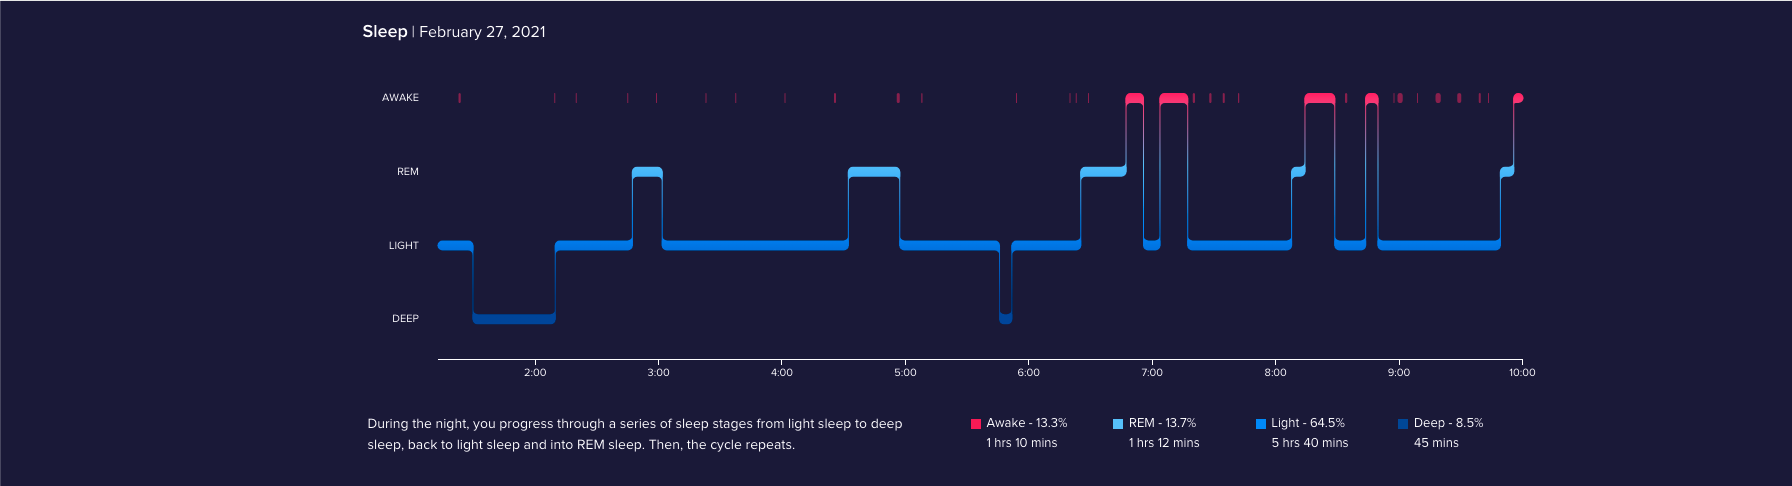
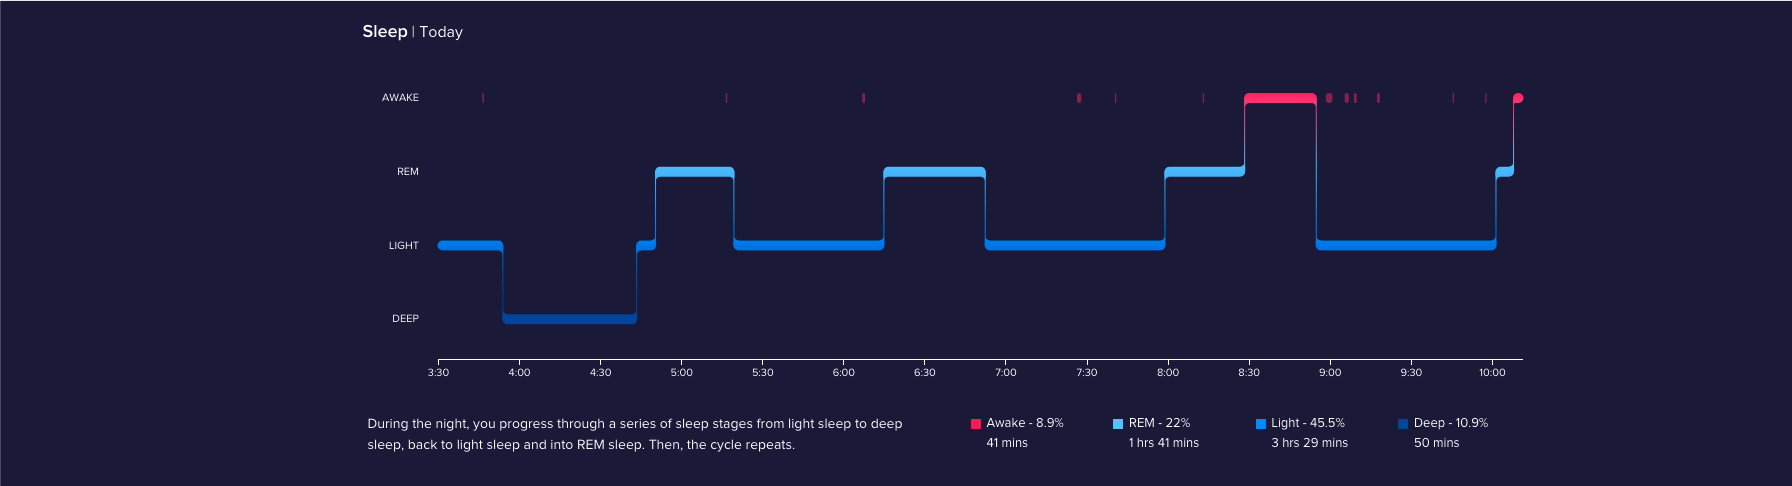
Updated 2-28-21
I had yesterday's screenshot by accident and added something to today's description.

diff --git a/Sleep Paralysis/Failed Attempts/2021/February/2-28-21/README.md b/Sleep Paralysis/Failed Attempts/2021/February/2-28-21/README.md
@@ -1,5 +1,5 @@
 # Failed Attempt
 
-I failed today. I tried using the app Lucid Hole on my Fitbit so I could wake up directly from a REM cycle sometime after 7. I definitely didn't want to do something too early with the chance of having deep sleep. Unfortunately, I don't remember it going off. I did notice that close to 8 on the sleep chart, I had REM, then there was a point where I had light sleep for 4 minutes, then back to REM. I'm thinking that's where it would've woken me up. I don't remember that though. I'm starting to think Lucid Hole isn't the best option for that. I think if I'm going to time my REM, I will do it based on an alarm estimation. I notice a general pattern for when REM happens or when my smart alarm goes off based on when I go to bed. If I have a smart alarm going off a day I went to bed at 1:20, going to bed at 1:30 the next night causes it go to off around 10 minutes later the next night. It tends to be pretty consistent like that. I could maybe time my REM cycle in a similar way. People have been known to do that before, so it's not as uncommon as one would think. If I went to bed at let's say 1:30 like last night, I'm likely to have REM around 6:40, so that would be a good time to hopefully target REM for REM rebound. We'll see how well that ends up working! I might try it tomorrow. If I go to bed a little after 1, I think 6:40 would be a good target time. I'm going to have multiple alarms during that time to make sure I remember it happening.
+I failed today. I tried using the app Lucid Hole on my Fitbit so I could wake up directly from a REM cycle sometime after 7. I definitely didn't want to do something too early with the chance of having deep sleep. Unfortunately, I don't remember it going off. I did notice that close to 8 on the sleep chart, I had REM, then there was a point where I had light sleep for 4 minutes, then back to REM. I'm thinking that's where it would've woken me up. I don't remember that though. I'm starting to think Lucid Hole isn't the best option for that. I think if I'm going to time my REM, I will do it based on an alarm estimation. I notice a general pattern for when REM happens or when my smart alarm goes off based on when I go to bed. If I have a smart alarm going off a day I went to bed at 1:20, going to bed at 1:30 the next night causes it go to off around 10 minutes later the next night. It tends to be pretty consistent like that. I could maybe time my REM cycle in a similar way. People have been known to do that before, so it's not as uncommon as one would think. If I went to bed at let's say 1:30 like last night, I'm likely to have REM around 6:40, so that would be a good time to hopefully target REM for REM rebound. We'll see how well that ends up working! I might try it tomorrow. If I go to bed a little after 1, I think 6:40 would be a good target time. I'm going to have multiple alarms during that time to make sure I remember it happening. By the way, I went to bed around 1:30, not 3:30. I woke up where I acted out in my sleep around 2:30. I thought something fell underneath my bed and I was looking for whatever it was. It was just a non-REM dream. It took awhile to get to sleep last night because I wasn't ready mentally. The first couple of hours were screwed up, so I might have had more deep sleep than reported. I tried getting the first hours, but it did the basic sleep chart and it reported asleep for most of it. I usually exercise when I'm done doing mentally stimulating things, but it didn't work out last night. I should've meditated to slow things down first maybe. I'm going to try to avoid that like I've been doing lately. 
 
 I'm going to do the alarm snoozing thing during that time. I'm sure there would be a way to directly go back to sleep, but I'm looking for sleep paralysis as a direct way to enter a lucid dream, so I have to sort of mentally be awake. I'll do that by setting alarms after I wake up during that time. I will hope for the best then. Back to today. I had an alarm set for 8:30 in case I miss it somehow, which I did! I got up a for a little during that time. I got to the point where I thought I would get up for the day, but I noticed I woke up directly from REM, so I decided to try the alarm thing with REM rebound. I was awake for awhile, so I was questioning my ability to fall asleep. I remember thinking of how much later it was, but I remembered falling asleep around that time. It was hard to tell for sure though, but it definitely felt like it happened. That's what happens if you're very awake mentally and why I can catch sleep paralysis sometimes too. Anyway, I tried one more time and had a dream and missed it. When I woke up, I did have a bit of the buzzing in my head like twice within a second. I had it again like 5 seconds later. Even though I had just woken up, I decided to not move and see if it would continue. It didn't after like 30 seconds. That's when I got up for the day. I realized that if I miss a dream and have a short REM cycle, there's a chance I could go back into it very quickly, especially if I have the buzzing and maybe get it then. I will have to keep that in mind if I miss a dream. I know I was super close today. Maybe tomorrow. If my alarm goes off after I happen to enter REM, maybe I'll have REM rebound again and hopefully not miss it. I only had light sleep for 4 minutes after Lucid Hole happened before going back to REM, so if I could've kept my mind awake, maybe I wouldn't have missed it! Another thing to keep in mind.
